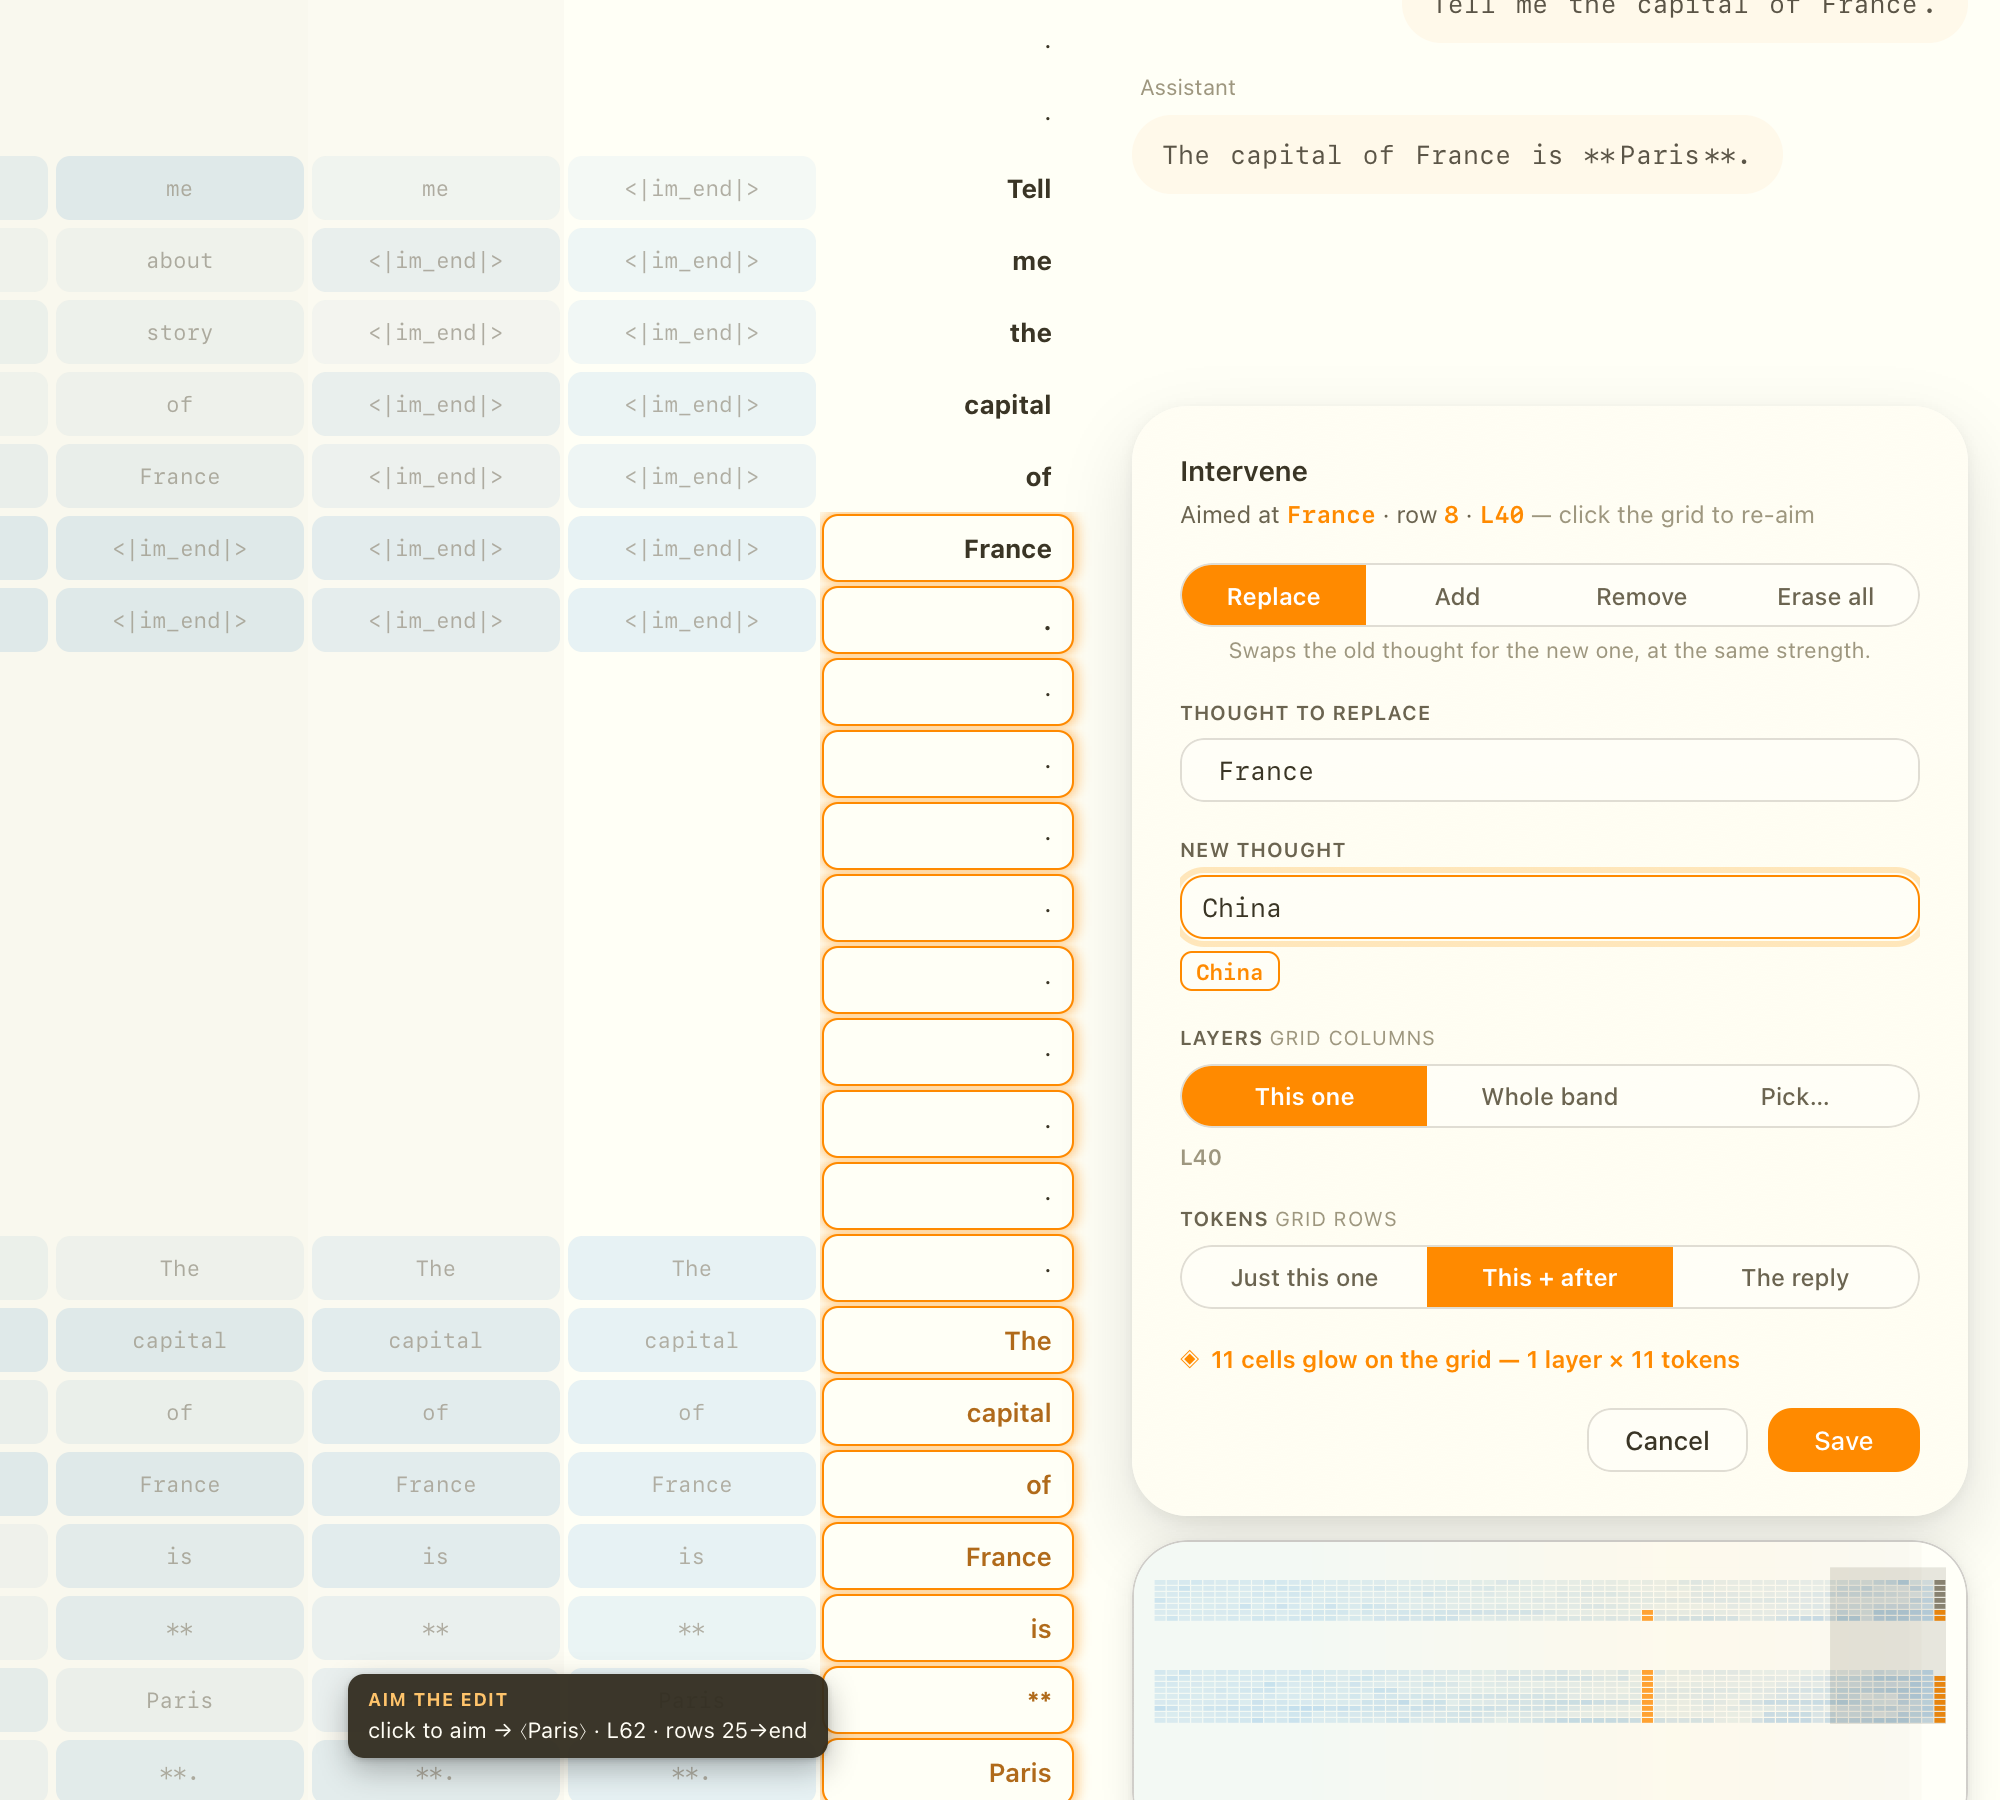
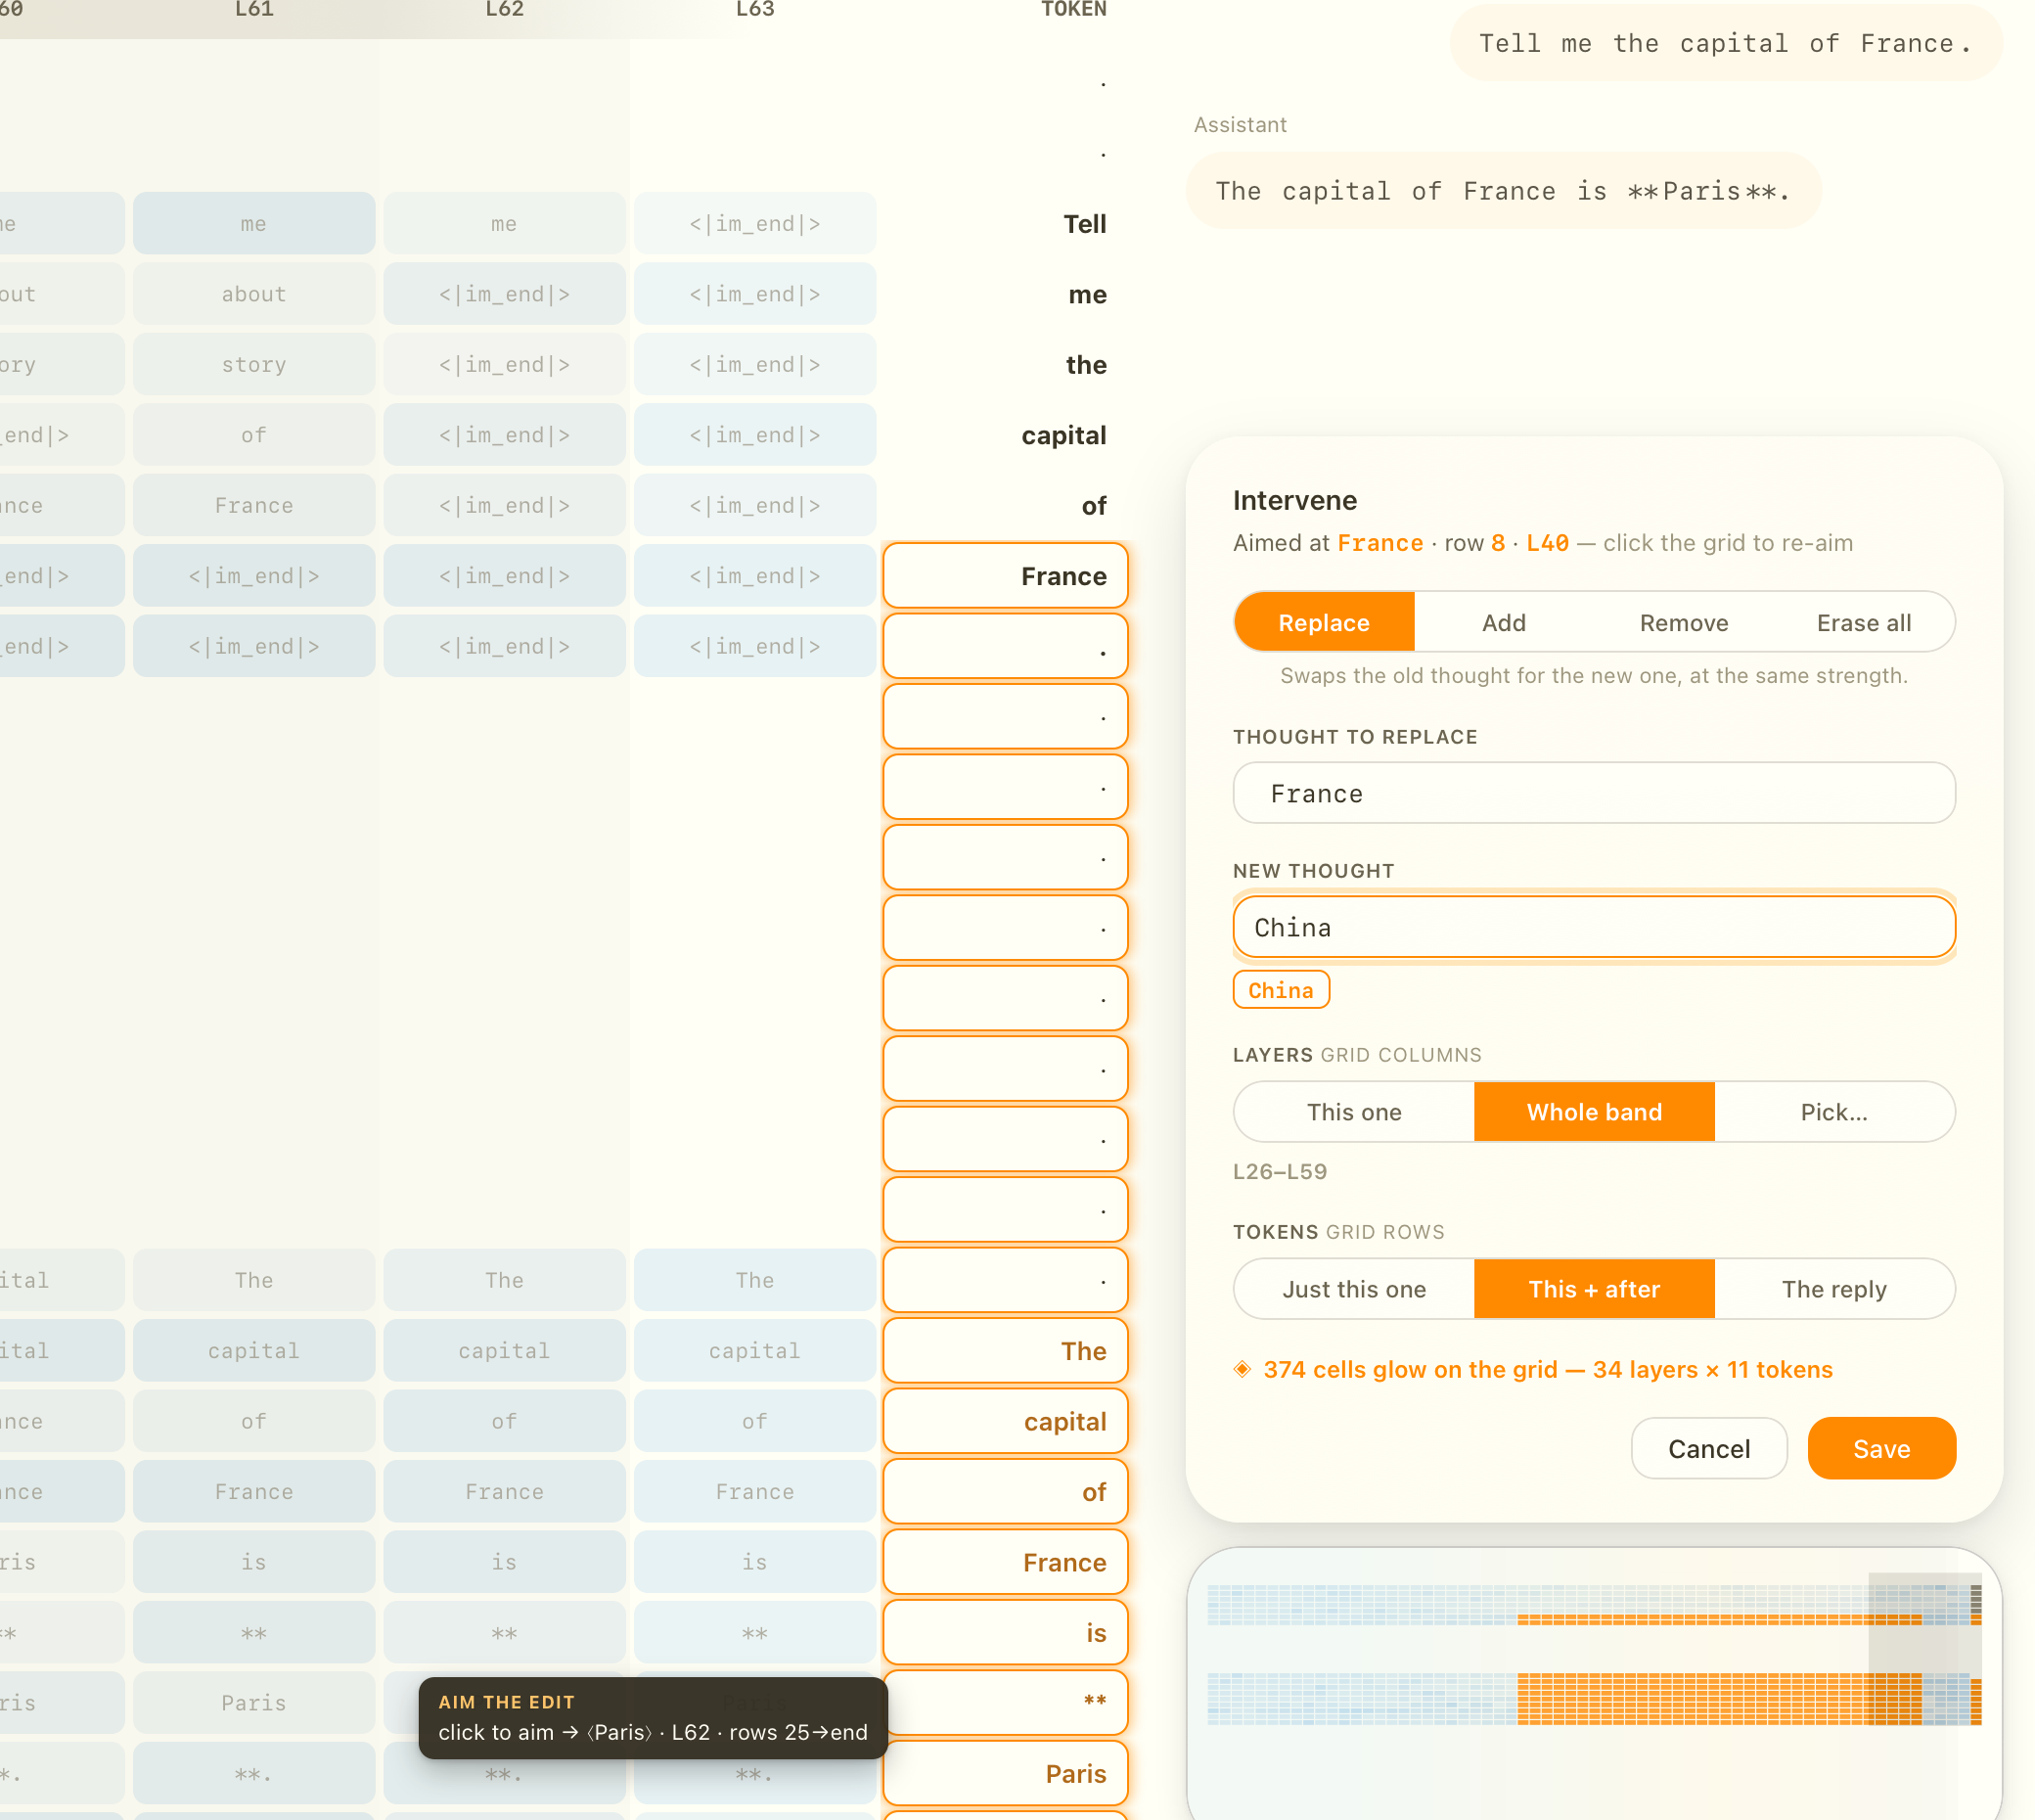
docs: README shows both intervention workflows end to end
Replaces the setup-moment screenshots with story shots from live runs:
manual mode shows the France->China band edit and the rewritten reply
"The capital of China is Beijing."; backward search shows two verified
Paris->Beijing recipes appearing mid-search. Prose tightened to short
declarative sentences.

Claude-Session: https://claude.ai/code/session_01C9FRUJF1xjHKtykFng8iEZ

diff --git a/README.md b/README.md
@@ -69,37 +69,39 @@ See [`docs/perf/`](docs/perf/) for how it was made fast.
 
 ## Interventions: writing to the workspace
 
-The lens is a write surface too, in two modes: **edit a cell by hand**,
-or **name the reply you want** and let the app search backward for the
-edit.
+The lens writes as well as reads. Edit the workspace by hand, or name
+the reply you want and let the app find the edit.
 
-### Manual: click a cell
+### Manual: edit a cell
 
-Click a cell → **Intervene** to replace, add, remove, or erase what the
-model is thinking at chosen layers and positions. **Re-run** regenerates
-with the edits applied; a **Baseline / Intervened** toggle flips the
-grid + chat between the two runs with token-level diffs.
+Click a cell, pick Replace / Add / Remove / Erase, and type the new
+thought. Choose how far it reaches: one cell, a layer band, or the whole
+reply. **Re-run** regenerates, and a **Baseline / Intervened** toggle
+diffs the two runs.
 
-![Replacing the France thought with China at L40](assets/screenshot_intervene.png)
+![Replacing the France thought with China across the workspace band](assets/screenshot_intervene.png)
+
+Replacing *France* with *China* across the band rewrites the answer:
+
+![The reply now reads: the capital of China is Beijing](assets/screenshot_intervene_result.png)
 
 ### Backward search: "Make it say…"
 
-Click a word in the reply and type the replacement. The search replays
-exact workspace swaps against a deterministic baseline for its whole
-time budget; finds land in the rail as **recipes**. A green dot means a
-fresh greedy replay reproduced the requested reply byte for byte. When
-no literal swap works, the search asks the model for the premise behind
-the reply (⟨France⟩→⟨China⟩ to make ⟨Paris⟩ say ⟨Beijing⟩), clamps it
-across the workspace band, and bisects to the smallest band that still
-redirects the answer. Premise recipes (violet dot) re-derive the reply:
-*"The capital of China is Beijing."*
+Click a word in the reply, type the replacement, and the search replays
+workspace swaps against a clean baseline until its time runs out. Each
+hit becomes a **recipe**; a green dot means a replay reproduced your
+reply exactly.
 
-![A verified Paris→Beijing recipe from the backward search](assets/screenshot_recipe.png)
+![Two verified Paris→Beijing recipes found mid-search](assets/screenshot_search.png)
+
+When no direct swap works, the search asks the model for the premise
+behind the reply: ⟨France⟩→⟨China⟩ to move ⟨Paris⟩ to ⟨Beijing⟩. It
+clamps that across the band, then shrinks it to the smallest band that
+still works. Those recipes carry a violet dot.
 
 Backward search needs a measured workspace band. One ships for the
 Neuronpedia lens; [`scripts/measure_bands.py`](scripts/measure_bands.py)
-measures others. See [`docs/interventions.md`](docs/interventions.md)
-for the math, scopes, and API.
+measures others. Details in [`docs/interventions.md`](docs/interventions.md).
 
 ## The bundled lens
 